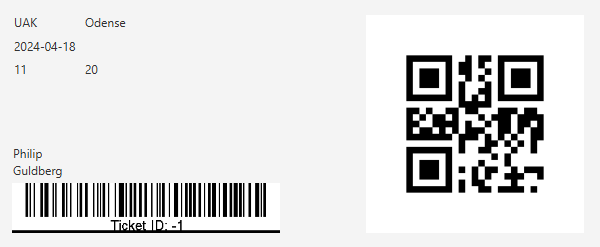
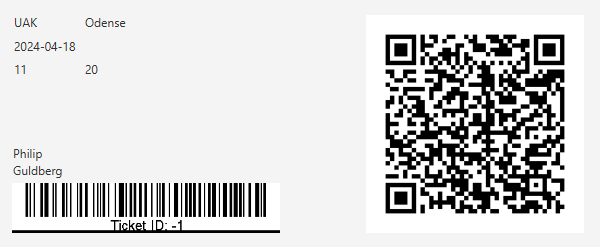
Tickets now generate all the event information and ticket information and when you scan em it shows the correct information

Changed region(s): [[0.63, 0.1134, 0.96, 0.8785]]

diff --git a/resources/css/MainCss.css b/resources/css/MainCss.css
@@ -37,3 +37,7 @@
     -fx-background-color: white;
     -fx-text-fill: black;
 }
+
+.ticketlabel {
+    -fx-background-color: white;
+}

diff --git a/src/easvbar/gui/controller/TicketSellController.java b/src/easvbar/gui/controller/TicketSellController.java
@@ -1,12 +1,14 @@
 package easvbar.gui.controller;
 
+import easvbar.be.Event;
 import easvbar.be.Ticket;
+import easvbar.gui.helperclases.ShowImageClass;
 import easvbar.gui.model.TicketModel;
 import javafx.embed.swing.SwingFXUtils;
 import javafx.fxml.FXML;
 import javafx.scene.control.Label;
 import javafx.scene.image.ImageView;
-import javafx.scene.layout.AnchorPane;
+import javafx.scene.layout.*;
 
 import javax.imageio.ImageIO;
 import java.io.File;
@@ -47,17 +49,21 @@ public class TicketSellController {
     private ImageView imageBarcode;
 
     private Ticket tickerSold = new Ticket();
+    private ShowImageClass showImageClass = new ShowImageClass();
+    private Event ticketEvent = new Event();
 
     private void setUp() {
 
     }
-    public void setTicket(Ticket ticket) {
+    public void setTicketAndEvent(Ticket ticket,Event event) {
         this.tickerSold = ticket;
+        this.ticketEvent = event;
     }
 
     // Method to fill ticket information and generate images
     public void fillTicketInformationAndGenerateImages(String eventName, String eventLocation,
-    String eventDate, String eventStart,String eventEnd, String userName,String userLastName) throws Exception {
+                                                       String eventDate, String eventStart, String eventEnd, String userName,
+                                                       String userLastName, int eventId) throws Exception {
 
         // Fill label information
         txtEventName.setText(eventName);
@@ -68,10 +74,21 @@ public class TicketSellController {
         txtUserName.setText(userName);
         txtUserLastName.setText(userLastName);
 
+        BackgroundSize backgroundSize = new BackgroundSize(1.0, 1.0, true, true, true, false);
+        BackgroundImage backgroundImage = new BackgroundImage(showImageClass.showImage(ticketEvent.getEventImage()),
+                BackgroundRepeat.NO_REPEAT, BackgroundRepeat.NO_REPEAT,
+                BackgroundPosition.DEFAULT, backgroundSize);
+
+        Background backgroundimage = new Background(backgroundImage);
+        background.setBackground(backgroundimage);
+
+
         // Generate QR code and barcode
         TicketModel ticket = new TicketModel();
-        String qrCode = ticket.generateQRCode(tickerSold);
-        String barcode = ticket.generateBarcode(tickerSold);
+
+        // Assuming tickerSold contains the ticket information
+        String qrCode = ticket.generateQRCode(tickerSold, ticketEvent, userName, userLastName);
+        String barcode = ticket.generateBarcode(tickerSold, ticketEvent, userName, userLastName);
 
         // Convert QR code string to image and set it to ImageView
         ImageQRCode.setImage(ticket.convertBase64ToImageQR(qrCode));
@@ -80,7 +97,7 @@ public class TicketSellController {
         imageBarcode.setImage(ticket.convertBase64ToImageBC(barcode));
 
         // Save ticket image to folder
-        saveTicketImage(txtEventName.getText(),txtUserName.getText(),txtUserLastName.getText());
+        saveTicketImage(eventName, userName, userLastName);
     }
 
     // Method to save ticket image to a folder

diff --git a/src/easvbar/gui/model/TicketModel.java b/src/easvbar/gui/model/TicketModel.java
@@ -5,6 +5,7 @@ import com.google.zxing.WriterException;
 import com.google.zxing.client.j2se.MatrixToImageWriter;
 import com.google.zxing.common.BitMatrix;
 import com.google.zxing.qrcode.QRCodeWriter;
+import easvbar.be.Event;
 import easvbar.be.Ticket;
 import easvbar.bll.TicketManager;
 import javafx.collections.FXCollections;
@@ -66,11 +67,20 @@ public class TicketModel {
     }
 
 
-    public String generateQRCode(Ticket ticket) throws IOException {
+    public String generateQRCode(Ticket ticket, Event event, String userName,
+                                 String userLastname) throws IOException {
         String qrCode = null;
         try {
+            String qrData = "Ticket ID: " + ticket.getTicketId() +
+                    "\nEvent ID: " + event.getId() +
+                    "\nEvent Name: " + event.getName() +
+                    "\nEvent Location: " + event.getLocation() +
+                    "\nEvent Date: " + event.getDate() +
+                    "\nUser Name: " + userName +
+                    "\nUser Last Name: " + userLastname;
+
             QRCodeWriter qrCodeWriter = new QRCodeWriter();
-            BitMatrix bitMatrix = qrCodeWriter.encode("Ticket ID: " + ticket.getTicketId(), BarcodeFormat.QR_CODE, 200, 200);
+            BitMatrix bitMatrix = qrCodeWriter.encode(qrData, BarcodeFormat.QR_CODE, 200, 200);
             ByteArrayOutputStream outputStream = new ByteArrayOutputStream();
             MatrixToImageWriter.writeToStream(bitMatrix, "PNG", outputStream);
             qrCode = Base64.getEncoder().encodeToString(outputStream.toByteArray());
@@ -93,11 +103,20 @@ public class TicketModel {
     }
 
 
-    public String generateBarcode(Ticket ticket) throws IOException {
+    public String generateBarcode(Ticket ticket, Event event, String userName, String userLastname) throws IOException {
         String barcodeBase64 = null;
         try {
+            // Construct barcode data string
+            String barcodeData = "Ticket ID: " + ticket.getTicketId() +
+                    "\nEvent ID: " + event.getId() +
+                    "\nEvent Name: " + event.getName() +
+                    "\nEvent Location: " + event.getLocation() +
+                    "\nEvent Date: " + event.getDate() +
+                    "\nUser Name: " + userName +
+                    "\nUser Last Name: " + userLastname;
+
             // Create the barcode
-            Barcode barcode = BarcodeFactory.createCode128("Ticket ID: " + ticket.getTicketId());
+            Barcode barcode = BarcodeFactory.createCode128(barcodeData);
 
             // Scale the barcode
             barcode.setBarWidth(2);

diff --git a/src/easvbar/dal/db/TicketDAO_DB.java b/src/easvbar/dal/db/TicketDAO_DB.java
@@ -35,9 +35,10 @@ public class TicketDAO_DB implements ITicket {
                 boolean foodTicket = rs.getBoolean("FoodTicket");
                 boolean beerTicket = rs.getBoolean("BeerTicket");
                 boolean firstRow = rs.getBoolean("FirstRow");
+                int eventId = rs.getInt("EventId");
 
 
-                Ticket ticket = new Ticket (ticketId,qrCode,barcode,vipTicket,foodTicket,beerTicket,firstRow);
+                Ticket ticket = new Ticket (ticketId,qrCode,barcode,vipTicket,foodTicket,beerTicket,firstRow,eventId);
                 allTickets.add(ticket);
             }
             return allTickets;
@@ -49,7 +50,7 @@ public class TicketDAO_DB implements ITicket {
     }
 
     public Ticket createTicket(Ticket ticket) throws Exception {
-        String sql = "INSERT INTO FuckEASVBar.dbo.Ticket (QrCode,Barcode,VipTicket,FoodTicket,BeerTicket,FirstRow) VALUES (?,?,?,?,?,?);";
+        String sql = "INSERT INTO FuckEASVBar.dbo.Ticket (QrCode,Barcode,VipTicket,FoodTicket,BeerTicket,FirstRow,EventId) VALUES (?,?,?,?,?,?,?);";
 
         try (Connection conn = databaseConnector.getConnection();
              PreparedStatement stmt = conn.prepareStatement(sql, Statement.RETURN_GENERATED_KEYS))
@@ -61,6 +62,7 @@ public class TicketDAO_DB implements ITicket {
             stmt.setBoolean(4,ticket.getFoodTicket());
             stmt.setBoolean(5,ticket.getBeerTicket());
             stmt.setBoolean(6,ticket.getFirstRow());
+            stmt.setInt(7,ticket.getEventId());
 
             // Run the specified SQL Statement
             stmt.executeUpdate();
@@ -75,7 +77,8 @@ public class TicketDAO_DB implements ITicket {
 
             // Create ticket object and send up the layers
             Ticket createdTicket = new Ticket(ticketId, ticket.getQrCode(), ticket.getBarcode(),
-                    ticket.getVipTicket(), ticket.getFoodTicket(),ticket.getBeerTicket(),ticket.getFirstRow());
+                    ticket.getVipTicket(), ticket.getFoodTicket(),ticket.getBeerTicket(),ticket.getFirstRow()
+                    ,ticket.getEventId());
 
             return createdTicket;
         }

diff --git a/src/easvbar/be/Ticket.java b/src/easvbar/be/Ticket.java
@@ -19,9 +19,10 @@ public class Ticket {
     private boolean foodTicket;
     private boolean beerTicket;
     private boolean firstRow;
+    private int eventId;
 
     public Ticket(int ticketId, String qrCode, String barcode, boolean vipTicket, boolean foodTicket,
-                  boolean beerTicket, boolean firstRow) {
+                  boolean beerTicket, boolean firstRow, int eventId) {
         this.ticketId = ticketId;
         this.qrCode = qrCode;
         this.barcode = barcode;
@@ -29,6 +30,7 @@ public class Ticket {
         this.foodTicket = foodTicket;
         this.beerTicket = beerTicket;
         this.firstRow = firstRow;
+        this.eventId = eventId;
     }
 
     public Ticket(int ticketId, boolean vipTicket, boolean foodTicket,
@@ -43,6 +45,14 @@ public class Ticket {
     public Ticket() {
     }
 
+    public Ticket(int ticketId, boolean vipTicket, boolean foodTicket, boolean beerTicket, boolean firstRow, int eventId) {
+        this.ticketId = ticketId;
+        this.vipTicket = vipTicket;
+        this.foodTicket = foodTicket;
+        this.beerTicket = beerTicket;
+        this.firstRow = firstRow;
+        this.eventId = eventId;
+    }
 
 
     public int getTicketId() {
@@ -107,5 +117,13 @@ public class Ticket {
 
     public void setFirstRow(boolean firstRow) {
         this.firstRow = firstRow;
+    }
+
+    public int getEventId() {
+        return eventId;
+    }
+
+    public void setEventId(int eventId) {
+        this.eventId = eventId;
     }
 }

diff --git a/src/easvbar/gui/controller/TicketController.java b/src/easvbar/gui/controller/TicketController.java
@@ -74,7 +74,7 @@ public class TicketController extends BaseController implements Initializable {
         Stage stage = (Stage) createTicket.getScene().getWindow();
         stage.close();
         Ticket newTicket = new Ticket(-1, vipTicketSelected, foodTicketSelected,
-                beerTicketSelected, firstRowSelected);
+                beerTicketSelected, firstRowSelected,selectedEvent.getId());
         try {
             ticketModel.createTicket(newTicket);
         } catch (Exception e) {
@@ -86,10 +86,10 @@ public class TicketController extends BaseController implements Initializable {
         Stage newStage = new Stage();
         Scene scene = new Scene(secondWindow);
         TicketSellController controller = loader.getController();
-        controller.setTicket(newTicket);
+        controller.setTicketAndEvent(newTicket, selectedEvent);
         controller.fillTicketInformationAndGenerateImages(selectedEvent.getName(), selectedEvent.getLocation(),
                 selectedEvent.getDate(), selectedEvent.getEventStart(), selectedEvent.getEventEnd(), txtUserName.getText(),
-                txtUserLastName.getText());
+                txtUserLastName.getText(), selectedEvent.getId());
 
         newStage.setScene(scene);
     }
